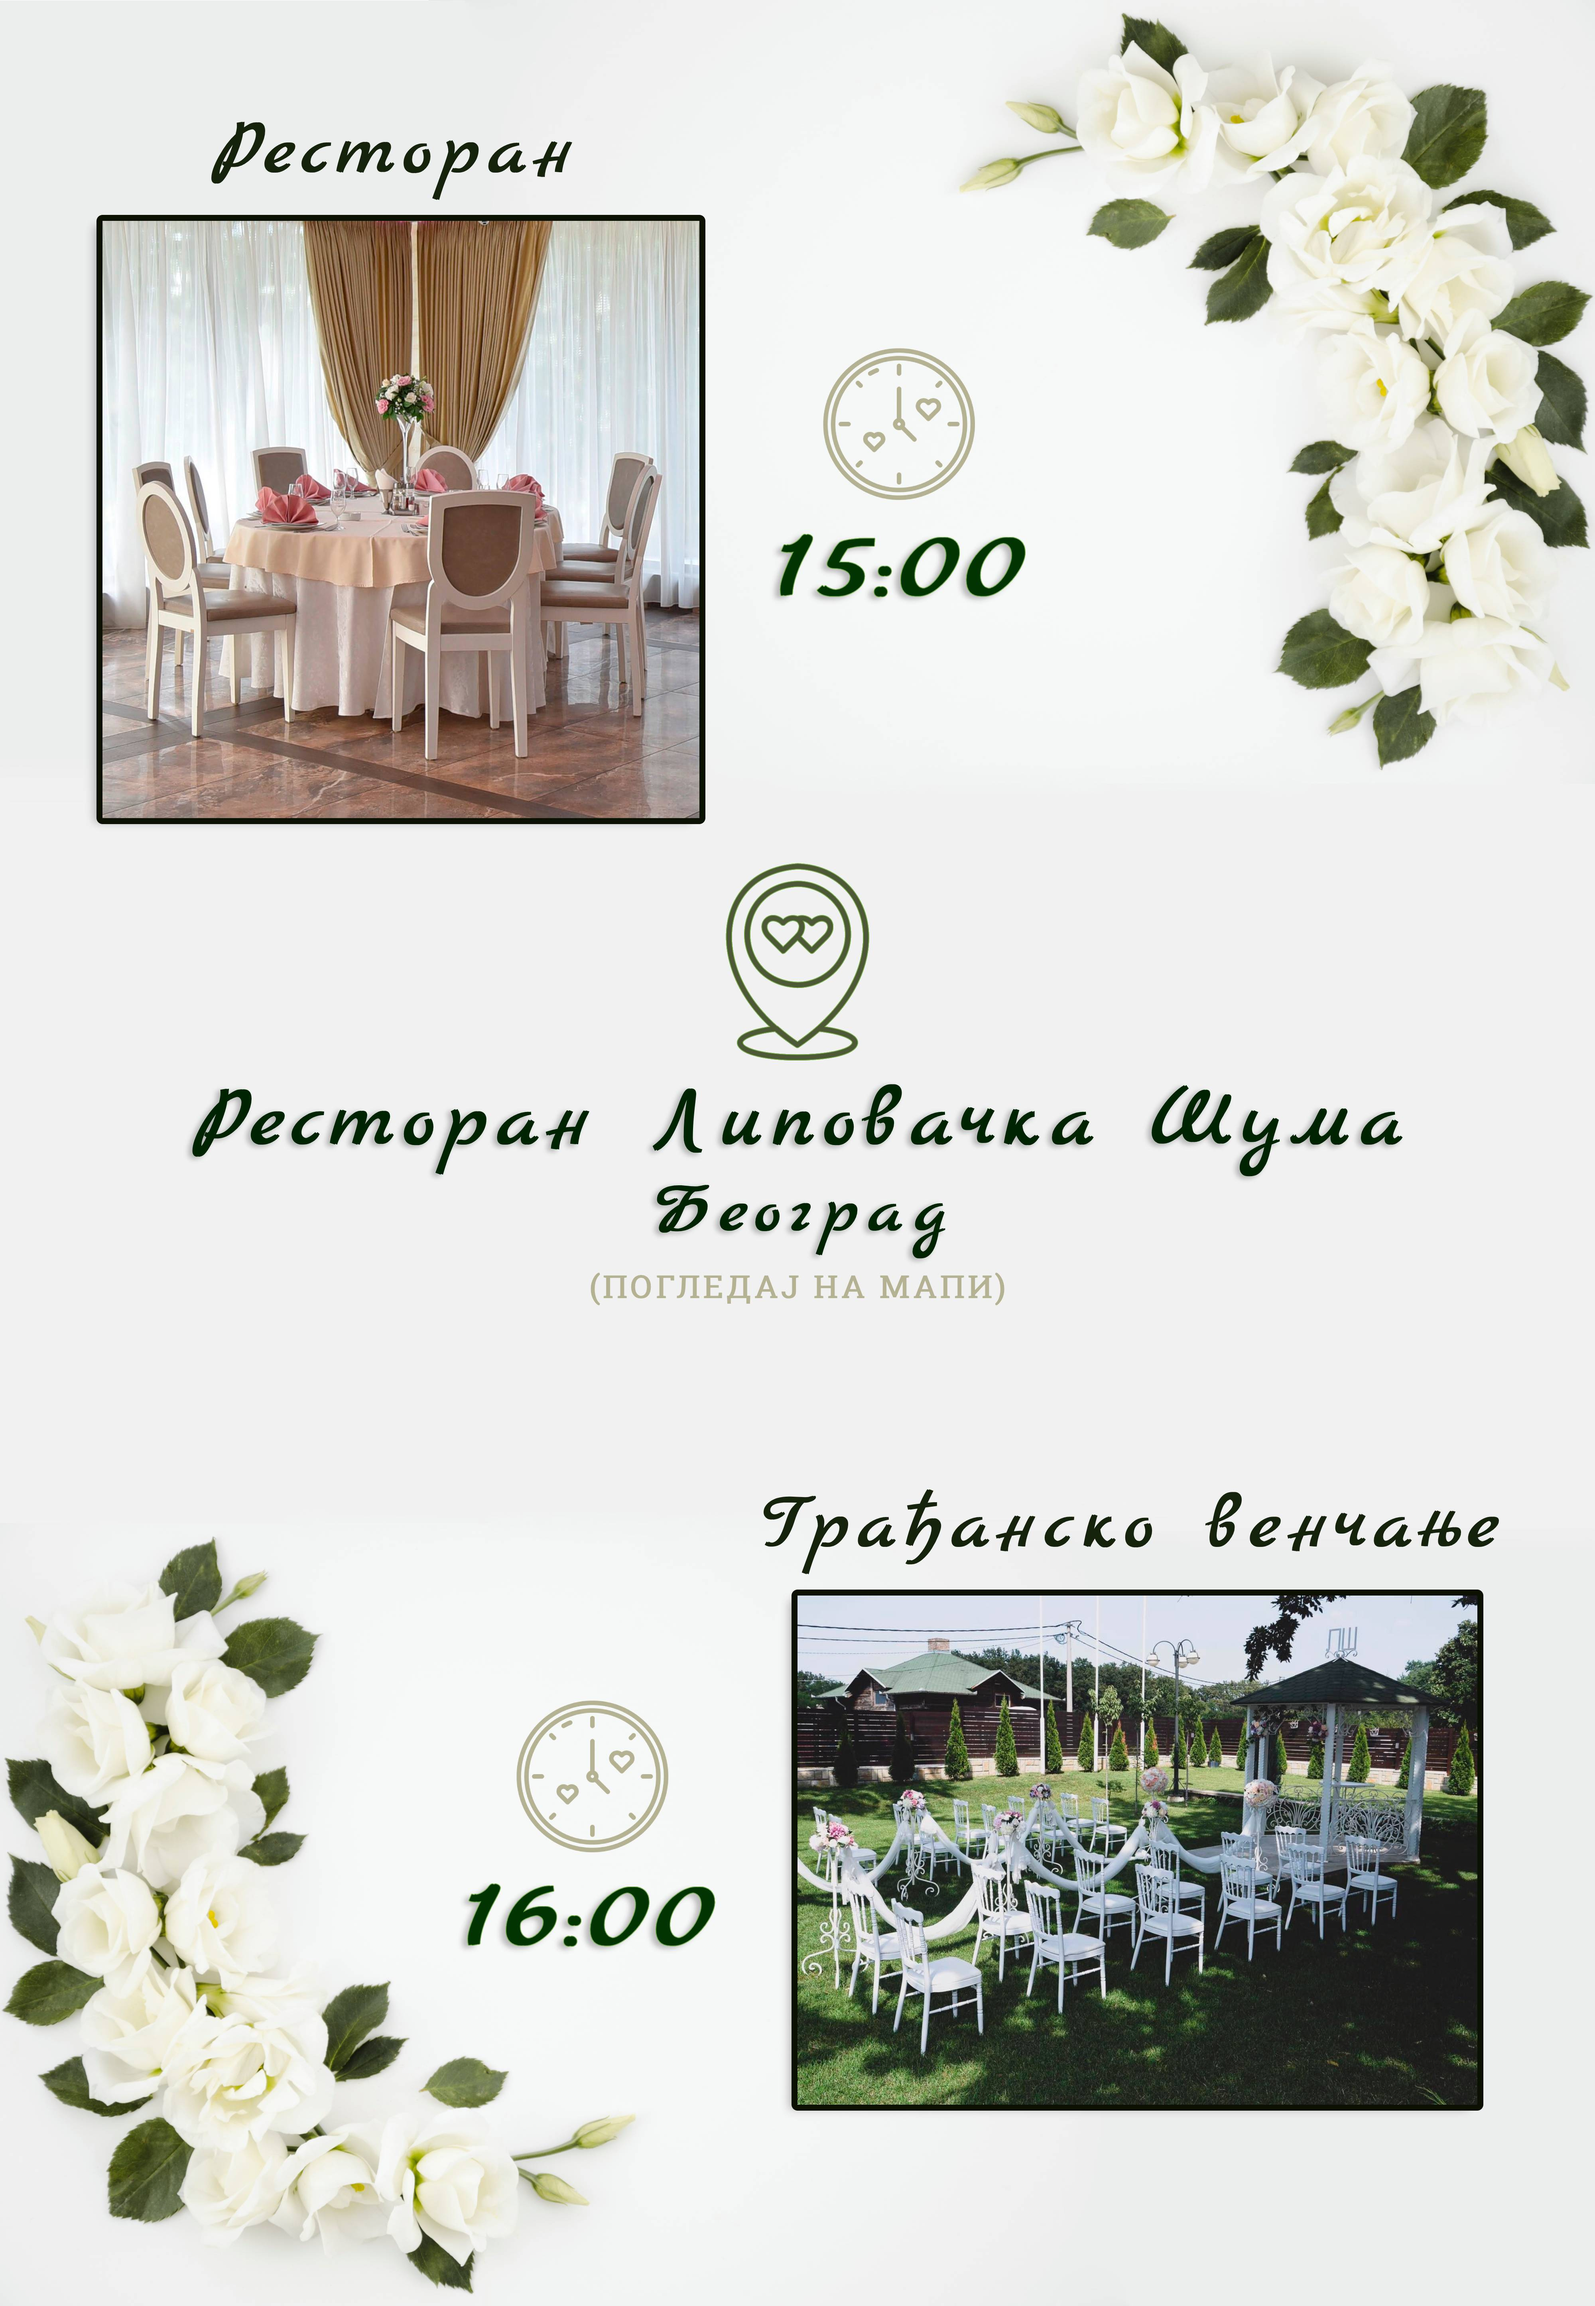
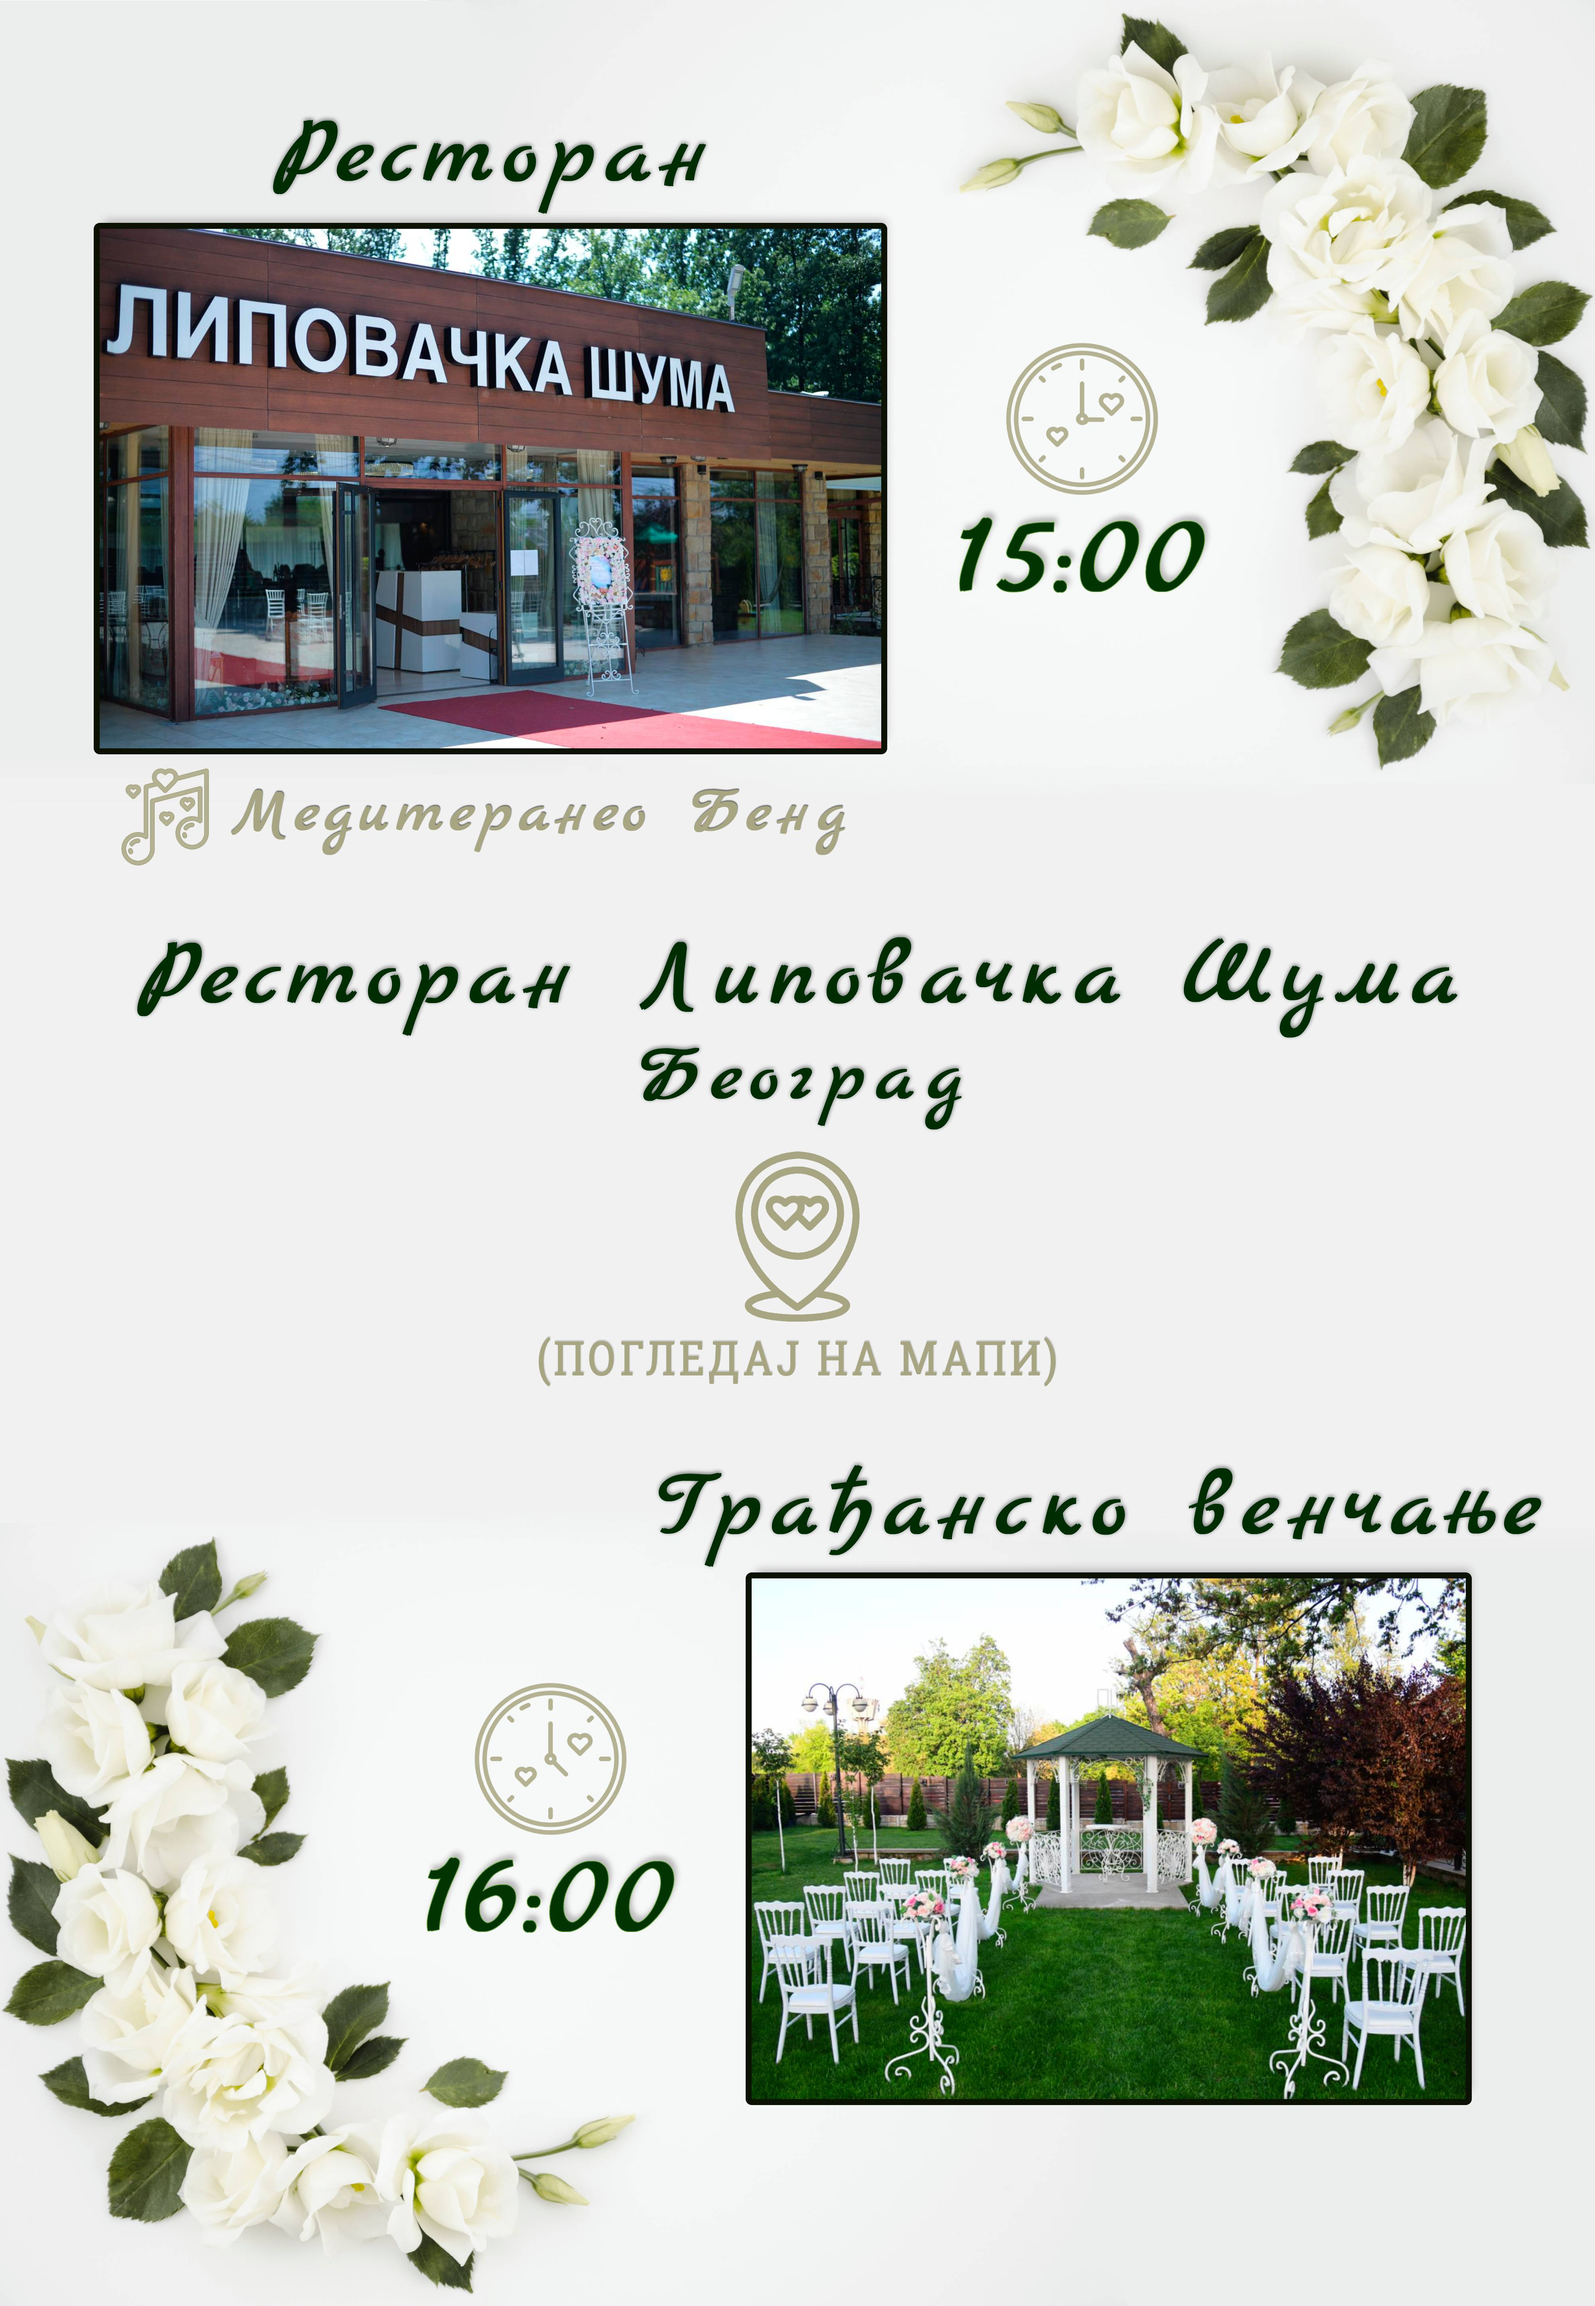
milan

Changed region(s): [[0.0312, 0.0311, 0.9688, 0.9336], [0.0938, 0.4046, 0.375, 0.4979]]

diff --git a/src/App.jsx b/src/App.jsx
@@ -1,35 +1,34 @@
 /* eslint-disable no-unused-vars */
-import { useState, useRef,useEffect } from "react";
+import { useState, useRef, useEffect } from "react";
 import "./App.css";
 import { getFirestore } from "firebase/firestore";
 import { initializeApp } from "firebase/app";
-import intro from './assets/intro.mp3'
+import intro from "./assets/intro.mp3";
 import { collection, setDoc, doc } from "firebase/firestore";
 
 const firebaseConfig = {
-  apiKey: "AIzaSyCUVH2wdT0BETqzmGrJlDOcJi6AIiTsbB4",
-  authDomain: "pozivnica-vm.firebaseapp.com",
-  projectId: "pozivnica-vm",
-  storageBucket: "pozivnica-vm.appspot.com",
-  messagingSenderId: "669091824222",
-  appId: "1:669091824222:web:51dd66ff076e745aefeacf",
-  measurementId: "G-DB0Q3H25JK",
+  apiKey: "AIzaSyDLDEB-Xo8oRepDT3mRKZN5X8ymjHcuHxY",
+  authDomain: "pozivnicavm.firebaseapp.com",
+  projectId: "pozivnicavm",
+  storageBucket: "pozivnicavm.appspot.com",
+  messagingSenderId: "36314673469",
+  appId: "1:36314673469:web:7e2f23c4231fc7858e9554",
+  measurementId: "G-WN8C4C576L",
 };
 
 const app = initializeApp(firebaseConfig);
 const db = getFirestore(app);
 
 function App() {
-  
   const [name, setName] = useState("");
 
   const [number, setNumber] = useState(0);
-  const [attending, setAttending] = useState(false);
+  const [attending, setAttending] = useState(true);
   const [guests, setGuests] = useState([]);
   const [visible, setVisible] = useState(false);
 
   const gosti = [
-    { value: 0, text: "Само ја" },
+    { value: 0, text: "-" },
     { value: 1, text: "+1" },
     { value: 2, text: "+2" },
     { value: 3, text: "+3" },
@@ -39,8 +38,7 @@ function App() {
 
   const handleSubmit = async () => {
     if (attending) {
-
-      let plus = number > 0 ? number : null
+      let plus = number > 0 ? number : 0;
       const documentId = `${name} +${plus}`;
       const guestDocRef = doc(collection(db, "gosti"), documentId);
       const allGuests = [name, ...guests];
@@ -52,7 +50,7 @@ function App() {
         });
         console.log("Document written with ID: ", docRef);
         alert("ХВАЛА НА ВАШОЈ ПОТВРДИ. ВИДИМО СЕ 30. ЈУНА");
-        setAttending(false);
+        setAttending(true);
         setGuests("");
         setName("");
         setNumber(0);
@@ -63,8 +61,12 @@ function App() {
     }
   };
 
-  const openMapa = () => {
-    const url = "https://maps.app.goo.gl/rrsJMMFSgBBWg7sT6";
+  const urlRestoran = "https://maps.app.goo.gl/rrsJMMFSgBBWg7sT6";
+  const urlNovaPazova = "https://maps.app.goo.gl/rH9dKEA2zSrj57b96";
+  const urlSremcica = "https://maps.app.goo.gl/Nq3hWG3tEQr6H9ncA";
+  const urlCrvka = "https://maps.app.goo.gl/DYdF2NskiJMg5yE56";
+
+  const openMapa = (url) => {
     window.open(url, "_blank").catch((err) => {
       console.error("Ne može se otvoriti mapa:", err);
     });
@@ -73,13 +75,27 @@ function App() {
   return (
     <>
       <div className="container">
-        <div className="title"></div>
+        <div className="title">
+        </div>
         <div className="date"></div>
+        <div className="svatovi">
+          <div className="mapaNp" onClick={() => openMapa(urlNovaPazova)}></div>
+          <div className="mapaSr" onClick={() => openMapa(urlSremcica)}></div>
+          <div className="mapaCr" onClick={() => openMapa(urlCrvka)}></div>
+        </div>
+        <div className="divider">
+          <p className="poruka">
+            Поделимо радост као што делимо снове.<br></br>Ваше присуство чини
+            наше венчање потпуним.
+          </p>
+        </div>
         <div className="restoran">
-          <div className="mapa" onClick={openMapa}></div>
+          <div className="mapa" onClick={() => openMapa(urlRestoran)}></div>
         </div>
         <div className="formWrapper">
-          <h1 className="formTitle">Потврда доласка</h1>
+          <h1 className="formTitle">
+            Потврда доласка
+          </h1>
 
           <p></p>
 
@@ -127,7 +143,7 @@ function App() {
                   ))}
                 </div>
               )}
-              {number > 0 ? `+${number}` : "Само ја"}
+              {number > 0 ? `+${number}` : "-"}
             </div>
             <div className="optionText">
               Изабери из падајућег менија одговарајућу опцију
@@ -140,7 +156,7 @@ function App() {
               rows={4}
               cols={40}
               className="input"
-              value={guests ? guests?.join("\n") : ''}
+              value={guests ? guests?.join("\n") : ""}
               onChange={(e) => {
                 const lines = e.target.value.split("\n");
                 setGuests(lines);
@@ -154,13 +170,15 @@ function App() {
         <div className="molbaWrapper">
           <p className="molba">
             Молимо Вас да потврдите Ваше присуство попуњавањем обрасца или да
-            нам се јавите до <br></br>15. јуна 2024.<br></br> Ваши, Весна и
-            Милан.
+            нам се јавите до <br></br>15. јуна 2024. године.<br></br> Ваши,
+            Весна и Милан.
           </p>
         </div>
       </div>
       <div className="footer">
-        <p className="footerText">Породице Ераковић и Ракић</p>
+        <p className="footerText">
+          Породице<br></br>Ераковић и Ракић
+        </p>
       </div>
     </>
   );

diff --git a/src/App.css b/src/App.css
@@ -54,6 +54,23 @@
   background-image: url('/src/assets/titlemob.jpg');
   background-size: contain; /* Slika pokriva celu površinu */
   background-position: center; /* Centriranje slike */
+  display: flex;
+  flex-direction: column;
+  align-items: center;
+}
+
+.divider {
+  background-color: #022209;
+  width: 100%;
+}
+
+.svatovi {
+  position: relative;
+  width: 100%;
+  aspect-ratio: 4000/5784;
+  background-image: url('/src/assets/svatovi.jpg');
+  background-size: contain; /* Slika pokriva celu površinu */
+  background-position: center; /* Centriranje slike */
 }
 
 .date {
@@ -75,10 +92,37 @@
 
 .mapa {
   position: absolute;
-  left: 37.35%;
+  left: 34%;
+  top: 50%;
+  width: 32%;
+  height: 11%;
+  cursor: pointer;
+}
+
+.mapaSr {
+  position: absolute;
+  left: 58%;
   top: 40%;
-  width: 25%;
-  height: 15%;
+  width: 33%;
+  height: 4%;
+  cursor: pointer;
+}
+
+.mapaNp {
+  position: absolute;
+  left: 10%;
+  top: 40%;
+  width: 33%;
+  height: 4%;
+  cursor: pointer;
+}
+
+.mapaCr {
+  position: absolute;
+  left: 55%;
+  top: 93%;
+  width: 33%;
+  height: 4%;
   cursor: pointer;
 }
 
@@ -86,7 +130,7 @@
 .formWrapper {
   width: 100%;
   max-width: 800px;
-  background-image: url('/src/assets/formabg.jpg');
+  background-image: url('/src/assets/footerbg.jpg');
   background-size: cover; /* Slika pokriva celu površinu */
   background-position: center; /* Centriranje slike */
   padding-top: 40px;
@@ -105,6 +149,14 @@
   margin-bottom:20px;
   padding: 20px 60px 20px 60px;
   
+}
+
+.poruka {
+  font-family: 'Marck Script', sans-serif;
+  font-size: 32px;
+  text-align: center;
+  color: #fff;
+  padding: 10px;
 }
 
 .molbaWrapper {
@@ -129,7 +181,7 @@
 
 .label {
   font-family: 'Viaoda Libre', sans-serif;
-  font-size: 12px;
+  font-size: 14px;
   color: #CDD389;
   margin-bottom: 4px;
   padding-left: 2px;
@@ -137,7 +189,7 @@
 
 .labelGosti {
   font-family: 'Viaoda Libre', sans-serif;
-  font-size: 10px;
+  font-size: 12px;
   color: #CDD389;
   margin-top: 20px;
   margin-bottom: 4px;
@@ -159,7 +211,7 @@
 
 .labelradio {
   font-family: 'Viaoda Libre', sans-serif;
-  font-size: 14px;
+  font-size: 16px;
   color: #CDD389;
   padding-left: 8px;
   vertical-align:middle
@@ -174,7 +226,7 @@
   background-color: #022209;
   display: relative;
   font-family: 'Viaoda Libre', sans-serif;
-  font-size: 14px;
+  font-size: 16px;
   line-height: 20px;
   padding: 4px 4px 4px 4px;
 }
@@ -182,7 +234,7 @@
 .optionText {
   margin-bottom: 20;
   font-family: 'Viaoda Libre', sans-serif;
-  font-size: 11px;
+  font-size: 12px;
   font-weight: "300";
   color: #CDD389;
   padding-left: 2;
@@ -219,7 +271,7 @@
 }
 
 .input {
-  font-size: 14px;
+  font-size: 16px;
   width: 280px;
   border-width: 1px;
   border-radius: 2px;
@@ -262,7 +314,8 @@
 
 .submit {
   font-family: 'Viaoda Libre', sans-serif;
-  font-size: 16px;
+  font-size: 18px;
+  font-weight: 900;
   color: #456123;
 }
 

diff --git a/index.html b/index.html
@@ -7,15 +7,17 @@
   <link rel="preconnect" href="https://fonts.googleapis.com">
   <link rel="preconnect" href="https://fonts.gstatic.com" crossorigin>
   <link href="https://fonts.googleapis.com/css2?family=Marck+Script&family=Viaoda+Libre&display=swap" rel="stylesheet">
-  <link
-  href="https://cdnjs.cloudflare.com/ajax/libs/font-awesome/6.0.0-beta3/css/all.min.css"
-  rel="stylesheet"
-/>
+  <link href="https://cdnjs.cloudflare.com/ajax/libs/font-awesome/6.0.0-beta3/css/all.min.css" rel="stylesheet" />
   <meta name="viewport" content="width=device-width, initial-scale=1.0" />
   <title>Pozivnica Vesna & Milan</title>
 </head>
 
 <body id="body">
+  <div style="padding-top: 5px;"><audio autoPlay controls>
+    <source src="/intro.mp3" type="audio/mp3" />
+    Your browser does not support the audio element.
+  </audio>
+</div>
   <div id="root"></div>
   <script type="module" src="/src/main.jsx"></script>
 </body>
